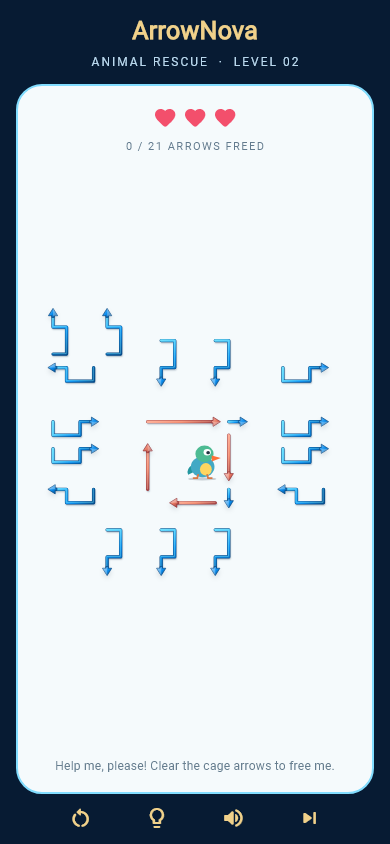
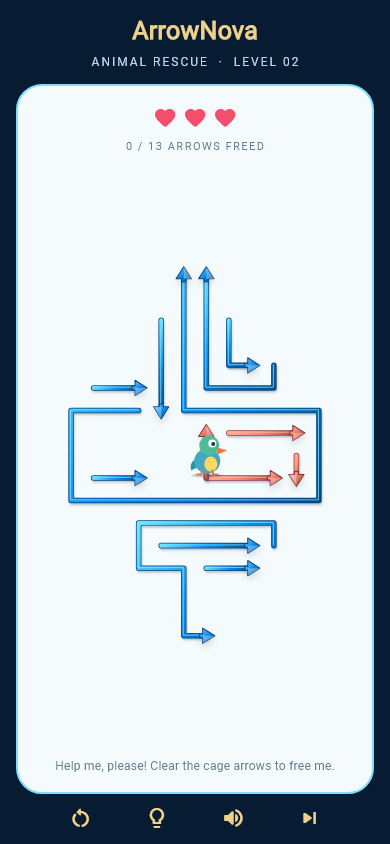
Use Classic 10 circuit layout for Rescue 2

Changed region(s): [[0.1231, 0.3081, 0.8308, 0.7701], [0.4, 0.154, 0.4308, 0.1848]]

diff --git a/mobile/lib/game/puzzle.dart b/mobile/lib/game/puzzle.dart
@@ -171,6 +171,31 @@ class LevelCatalog {
         : endless
         ? EndlessCatalog.arrowCount(level)
         : arrowCount(level);
+    if (rescue && level == 2) {
+      // Reuse the real Classic 10 circuit board for Rescue 2. The animal's
+      // cage occupies its central pocket, while the surrounding arrows and
+      // their blocker relationships stay recognizable from Classic 10.
+      final classicTen = get(10);
+      final paths = <ArrowPath>[];
+      for (final arrow in classicTen.arrows) {
+        if (arrow.id == 2 || arrow.id == 3 || arrow.id == 4) continue;
+        paths.add(ArrowPath(paths.length, arrow.cells));
+      }
+      final cageStart = paths.length;
+      paths.addAll([
+        ArrowPath(cageStart, [for (var x = 8; x <= 11; x++) Cell(x, 7)]),
+        ArrowPath(cageStart + 1, [Cell(11, 8), Cell(11, 9)]),
+        ArrowPath(cageStart + 2, [Cell(7, 9), Cell(8, 9), Cell(9, 9), Cell(10, 9)]),
+        ArrowPath(cageStart + 3, [Cell(7, 9), Cell(7, 8), Cell(7, 7)]),
+      ]);
+      return Puzzle(
+        level,
+        classicTen.width,
+        classicTen.height,
+        paths,
+        rescueCageIds: {cageStart, cageStart + 1, cageStart + 2, cageStart + 3},
+      );
+    }
     if (rescue && level <= 10) {
       // Start at Classic level-10 circuit difficulty, with the animal
       // enclosed by bent arrows on every side from the first mission.
